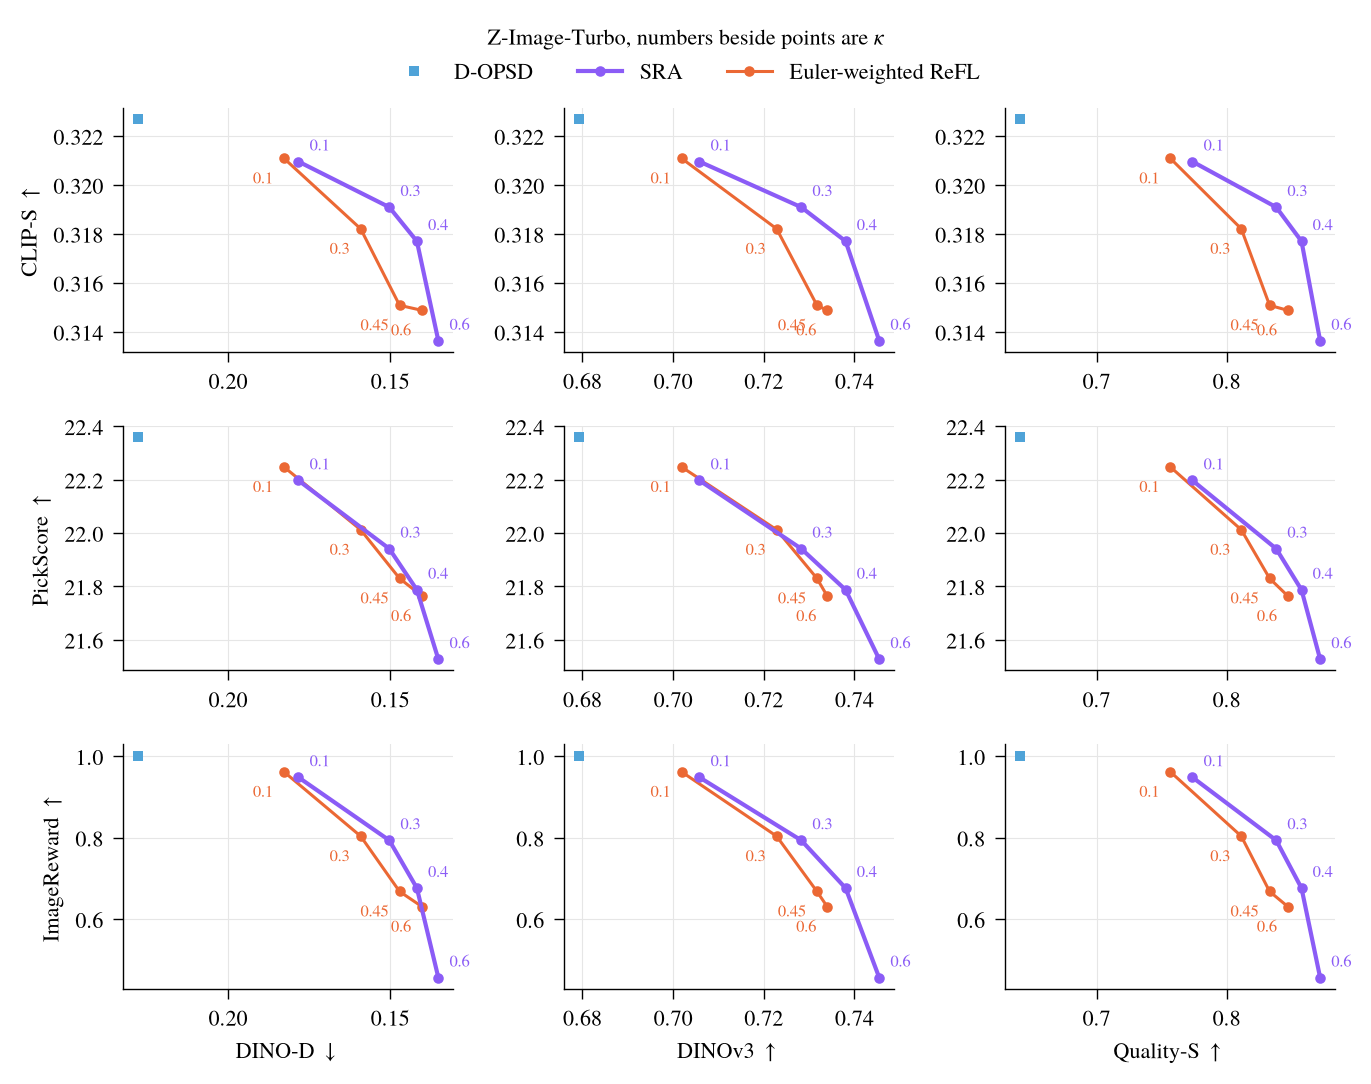
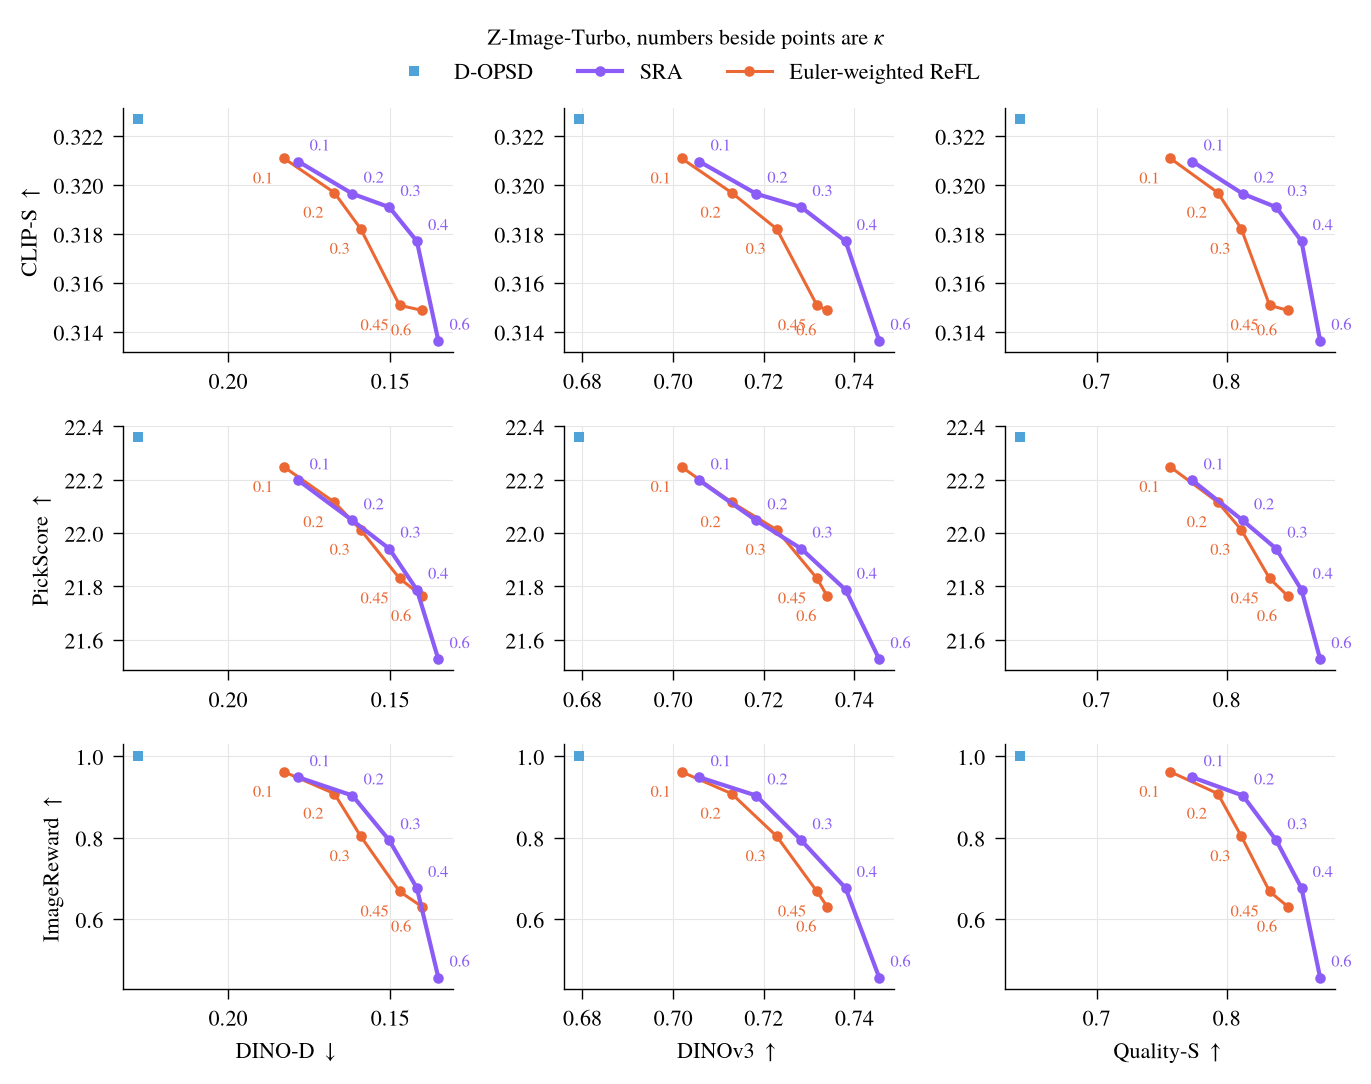
Update the Z-Image-Turbo kappa trade-off figure to five kappa values per method

diff --git a/README.md b/README.md
@@ -5,5 +5,5 @@ Anonymous supplementary material for an ICLR 2027 submission.
 ## Figures
 
 - `figures/human_study.png` (also as PDF): the four-question human study. Four participants each rated all 200 pairs, 40 per comparison. Each column is one comparison, each row one question, and each bar gives the case-weighted share of judgments preferring SRA (win 1, tie 0.5, loss 0), so 50 means no preference.
-- `figures/kappa_tradeoff.png` (also as PDF): SRA and Euler-weighted ReFL on Z-Image-Turbo at four values of the reward strength κ each. Each row is one prompt-based metric (CLIP-S, PickScore, ImageReward), each column one reward-related metric (DINO-D, DINOv3, Quality-S), and the number beside each point is κ. Means over the twenty validation cases, one training run per configuration.
+- `figures/kappa_tradeoff.png` (also as PDF): SRA and Euler-weighted ReFL on Z-Image-Turbo at five values of the reward strength κ each (Euler-weighted ReFL at 0.1, 0.2, 0.3, 0.45 and 0.6, SRA at 0.1, 0.2, 0.3, 0.4 and 0.6). Each row is one prompt-based metric (CLIP-S, PickScore, ImageReward), each column one reward-related metric (DINO-D, DINOv3, Quality-S), and the number beside each point is κ. Means over the twenty validation cases, one training run per configuration.
 - `figures/kappa_tradeoff_klein.png` (also as PDF): the same figure on FLUX.2-klein-4B, with five values of κ for each method (Euler-weighted ReFL at 0.1, 0.2, 0.3, 0.45 and 0.6, SRA at 0.1, 0.2, 0.3, 0.4 and 0.6).
